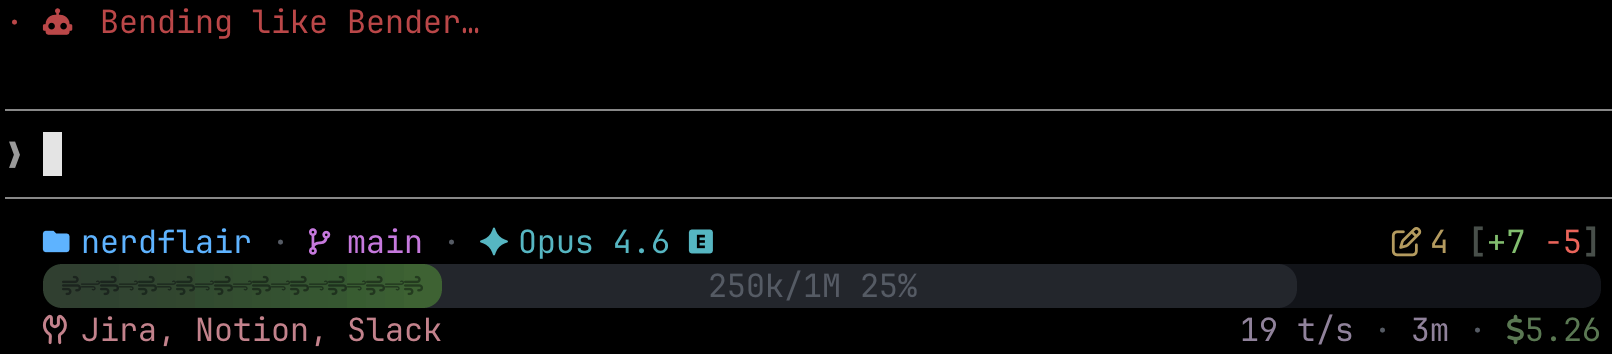
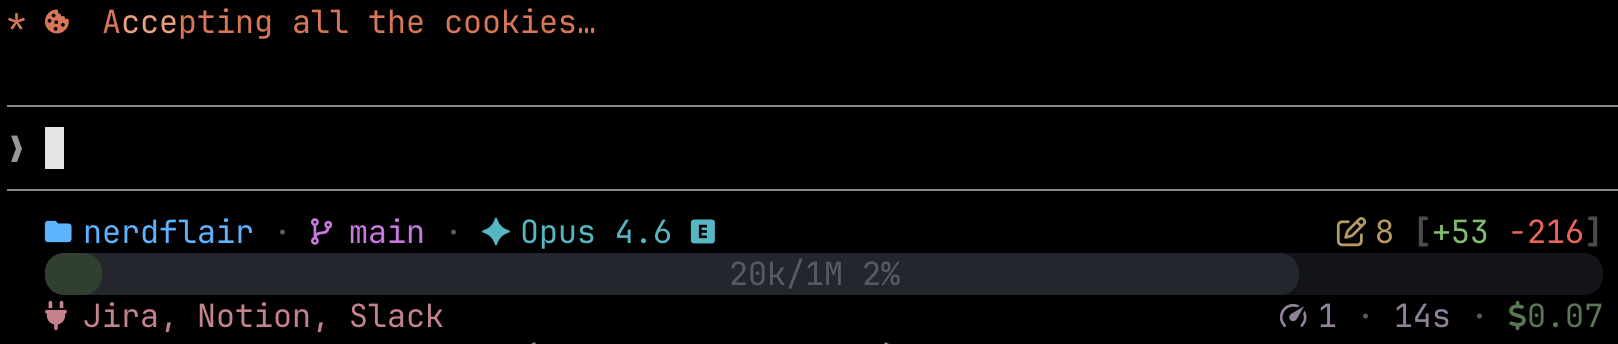
Simplify context bar visuals, remove gh links

diff --git a/README.md b/README.md
@@ -37,7 +37,7 @@ Restart Claude Code after install for the changes to take effect.
 ## Features
 
 - **3 layout modes:** full (3 rows), compact (2 rows), minimal (1 row)
-- **Context bar:** color shifts from green to red as context fills, with a compaction threshold marker and randomizable icon and texture decorations (flair)
+- **Context bar:** color shifts from green to red as context fills, with a compaction threshold marker
 - **3 color palettes**: vibrant (full color), muted (desaturated), mono (grayscale)
 - **Custom spinner verbs:** 150 themed thinking/working phrases
 - **Terminal bell**: (tab indicator) on Notification, PermissionRequest, and Stop events
@@ -51,7 +51,7 @@ Restart Claude Code after install for the changes to take effect.
 
 ## Prerequisites
 
-**A Nerd Font is required.** The statusline uses [Nerd Font](https://www.nerdfonts.com/) glyphs for icons, Powerline caps, and context bar textures. Without one installed, characters render as boxes.
+**A Nerd Font is required.** The statusline uses [Nerd Font](https://www.nerdfonts.com/) glyphs for icons and Powerline caps. Without one installed, characters render as boxes.
 
 Install via Homebrew or download from [nerdfonts.com](https://www.nerdfonts.com/):
 
@@ -174,7 +174,7 @@ Three bash scripts and one JSON state file.
 - **Configurator** (`scripts/nerdflair.sh`) — Handles `/nerdflair` commands. Reads and writes the state file.
 - **Hook Handler** (`hooks/bell.sh`) — Fired on Claude Code events. Sends terminal bell and plays audio chimes (macOS, Linux) based on user-defined config.
 
-All settings persist in `~/.claude/nerdflair/state.json`. Per-session data (chime style, bar texture) is stored as JSON in `~/.claude/nerdflair/sessions/` and cleaned up automatically.
+All settings persist in `~/.claude/nerdflair/state.json`. Per-session data (chime style) is stored as JSON in `~/.claude/nerdflair/sessions/` and cleaned up automatically.
 
 
 ## Update

diff --git a/.claude/skills/nf-gallery/SKILL.md b/.claude/skills/nf-gallery/SKILL.md
@@ -1,0 +1,20 @@
+---
+name: nf-gallery
+description: Render the nerdflair example gallery and save output for viewing
+disable-model-invocation: true
+allowed-tools: Bash
+---
+
+# Gallery
+
+Run the nerdflair gallery script and save the ANSI output to a temp file for viewing.
+
+```bash
+bash scripts/screenshot.sh > /tmp/nerdflair-gallery.txt 2>&1
+```
+
+After running, tell the user to view it with:
+
+```
+cat /tmp/nerdflair-gallery.txt
+```
